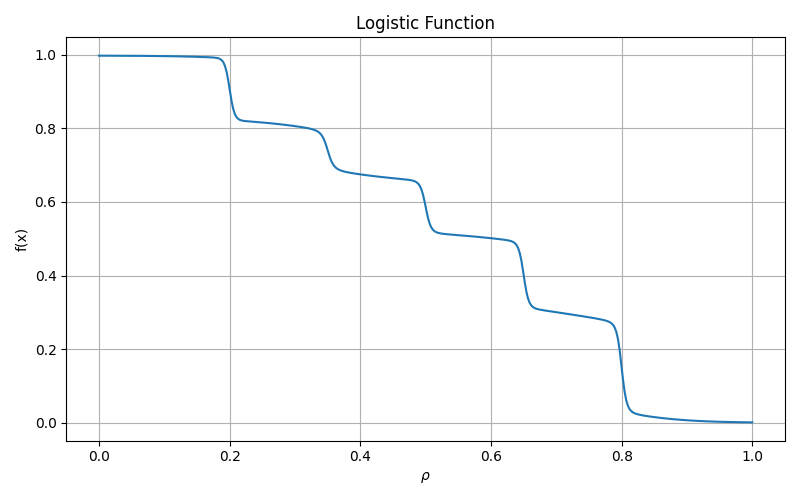
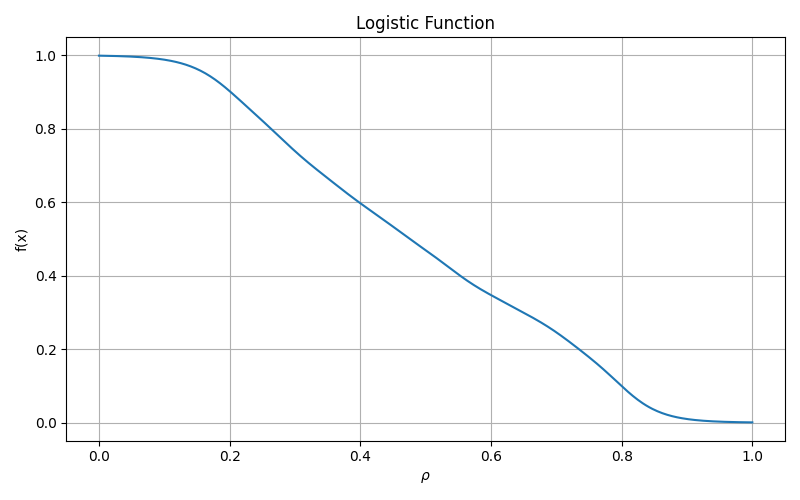
constraints + monotonicity objective are in place for poly

diff --git a/Scratch/Profiles/logistic.py b/Scratch/Profiles/logistic.py
@@ -1,19 +1,18 @@
 #NOTES:
-#should L and k in logistic(L,k) be given names to reflect they're scalars, not arrays?
-#have some way to call iota and/or curvature
-
-#make """ """ appearance consistent
-#make comments consistent: #this? or # this?
-#consider upper limit to k_max, as decided by theory.
+# should L and k in logistic(L,k) be given names to reflect they're scalars, not arrays?
+# have some way to call iota and/or curvature
+# consider upper limit to k_max, as decided by theory
+# logistic_opt(weights) needs to be in form acceptable for _Profile
 
 import os
 import numpy as np
 import matplotlib.pyplot as plt
 
 
+#------------- Global Variables -------------#
+NPTS = 400 #number of points
+X = np.linspace(0, 1, NPTS) #x axis generation
 
-NPTS= 400 #number of points
-X= np.linspace(0, 1, NPTS) #x axis generation
 
 
 
@@ -33,14 +32,14 @@ def logistic(k, rho_shift):
     f: array-like
         Logistic function
     """
-    rho= X - 0.5 #shift s.t. the func is no longer centered at rho=0
-    f= 1 - ( 1 / (1 + np.exp(-k* (rho - rho_shift/10)))) #the logistic func
+    rho = X - 0.5 #shift s.t. the func is no longer centered at rho=0
+    f = 1 - ( 1 / (1 + np.exp(-k* (rho - rho_shift/10)))) #the logistic func
     return f
 
 
 
 #----------------------- Node Distribution Functions ------------------------#
-#Choices of how to spread out families of k and rho_shift parameters
+
 def generate_nodes(min_val, max_val, N, *, quadratic=False, equidistant=False):
     """
     Generates nodes in [min_val, max_val] using either a quadratic
@@ -65,23 +64,21 @@ def generate_nodes(min_val, max_val, N, *, quadratic=False, equidistant=False):
     nodes: ndarray
         1D array of nodes in [min_val, max_val].
     """
-
-    #If both True or both False, error:
-    if quadratic == equidistant: 
+    #
+    if quadratic == equidistant: # if both True or both False, error
         raise ValueError(
             "Exactly one of 'quadratic' or 'equidistant' must be True."
         )
-    
+    #
     t = np.linspace(0.0, 1.0, N)
-    #Quadratically graded nodes, higher density near max_val:
+    # Quadratically graded nodes, higher density near max_val:
     if quadratic:
-    
         s = 1.0 - (1.0 - t)**2
         nodes = min_val + (max_val - min_val) * s
-    #Equidistantly spaced nodes:
+    # Equidistantly spaced nodes:
     else:  
         nodes = min_val + (max_val - min_val) * t
-
+    #
     return nodes
 
 
@@ -110,8 +107,8 @@ def logistic_super(N_k, k_min, k_max, N_shift, shift_min, shift_max, weights):
         function permutations of the chosen range of k and rho_shift,
         weighted by the optimization parameter "weights".
     """
-    fam= np.empty((len(X), N_k, N_shift), dtype=float)
-    k_nodes= generate_nodes( #distribution of k values 
+    fam = np.empty((len(X), N_k, N_shift), dtype=float)
+    k_nodes = generate_nodes( #distribution of k values 
         k_min, k_max, N_k, quadratic=False, equidistant=True)
     shift_nodes = generate_nodes( #distribution of rho_shifts
         shift_min, shift_max, N_shift, quadratic=False, equidistant=True) 
@@ -121,11 +118,11 @@ def logistic_super(N_k, k_min, k_max, N_shift, shift_min, shift_max, weights):
         for j, rho_shift in enumerate(shift_nodes):
             fam[:, i, j] = logistic(k_val, rho_shift)
     
-    fam_flat= fam.reshape(NPTS, -1) #reshaping 3D krho_fam (resol,N,N) into 2D krho_flat (resol, N^2)
-    superpos= np.empty(NPTS, dtype=float) #initializing (N,1) superposition array
+    fam_flat = fam.reshape(NPTS, -1) #reshaping 3D krho_fam (resol,N,N) into 2D krho_flat (resol, N^2)
+    superpos = np.empty(NPTS, dtype=float) #initializing (N,1) superposition array
 
     for w in range(N_k*N_shift): #scaling each func in family by optimization weights
-        superpos+= weights[w] * fam_flat[:,w] 
+        superpos += weights[w] * fam_flat[:,w] 
         
     superpos= superpos/(superpos[0] - superpos[-1]+ 0.05) #normalizing superposition
     return superpos
@@ -149,12 +146,12 @@ def logistic_opt(weights):
     weighted by "weights"
     """
     #see logistic_super for definitions:
-    N_k= 5 
-    k_min= 20 
-    k_max= 40 #steepness
-    N_shift= 5
-    shift_min= -2 #hard clamp
-    shift_max= 2 #hard clamp
+    N_k = 5 
+    k_min = 20 
+    k_max = 40 #steepness
+    N_shift = 5
+    shift_min = -2 #hard clamp
+    shift_max = 2 #hard clamp
 
     opt_pressure= logistic_super(
         N_k, k_min, k_max, N_shift, shift_min, shift_max, weights)
@@ -168,7 +165,7 @@ plt.title('Logistic Function')
 plt.xlabel(r'$\rho$')
 plt.ylabel('f(x)')
 #plot currently uses random weights:
-plt.plot(X, logistic_super(5, 20, 100, 5, -3, 3, np.random.rand(5**2)))
+plt.plot(X, logistic_super(5, 20, 40, 8, -3, 3, np.random.rand(5*8)))
 plt.grid()
 plt.tight_layout()
 plt.savefig('logistic.png')

diff --git a/Scratch/Runs/poly/opt_fixbound.py b/Scratch/Runs/poly/opt_fixbound.py
@@ -5,72 +5,96 @@
 
 
 
-#Imports:
+#---------- Imports & Loads ----------#
 import numpy as np
 import sys
 sys.path.append("/Users/macdaddi/DESC")
 import matplotlib.pyplot as plt
 import desc.io
+from desc.grid import LinearGrid
 from desc.objectives import (
     ObjectiveFunction,
-   #FixPressure, #skipping this line
+    FixPressure,
     FixIota,
     FixPsi,
     ForceBalance,
     LinearObjectiveFromUser,
+    ObjectiveFromUser,
 )
 from desc.optimize import Optimizer
-import scratch
 
 
 #Loading Equilibria Family and Making a Copy of Final Iteration:
-eq_init_fixbound= desc.io.load("scratch/runs/poly/eq_init_fixbound.h5") #initial equilibrium load - might need to generalize path
-eq_init= eq_init_fixbound[-1].copy() #copy of final eq in family
+eq_init_fixbound = desc.io.load("scratch/runs/poly/eq_init_fixbound.h5") #initial equilibrium load - might need to generalize path
+eq_init = eq_init_fixbound[-1].copy() #copy of final eq in family
 
 
-
-
-#-----------------------------------------------------
-#Objective of Choice:
-objective= ObjectiveFunction(ForceBalance(eq=eq_init))
-
-#Importing Custom Constraint Funcs:
+# Importing custom constraint funcs:
 from scratch.objectives.constraints import ( 
+    pressure_axis,
     pressure_edge,
     grad_pressure_axis,
-    grad_pressure_edge
+    grad_pressure_edge,
+    monotonicity
 )
 
-#Constructing the Objective Wrappers for Custom Func:
+# Custom objective wrapper for constraints:
+pressure_axis_normalized = LinearObjectiveFromUser(
+    fun=pressure_axis, 
+    thing=eq_init,
+    target=1.0, # pressure = 1 on axis
+    weight=1.0,
+)
 pressure_edge_zero = LinearObjectiveFromUser(
     fun=pressure_edge,
     thing=eq_init,
-    target=0.0,
+    target=0.0, # pressure = 0 on edge
     weight=1.0,
 )
 grad_pressure_axis_zero = LinearObjectiveFromUser(
-    fun=grad_pressure_axis,
+    fun=grad_pressure_axis, # Grad(P) = 0 on axis
     thing=eq_init,
     target=0.0,
     weight=1.0,
 )
 grad_pressure_edge_zero = LinearObjectiveFromUser(
-    fun=grad_pressure_edge,
+    fun=grad_pressure_edge, # Grad(P) = 0 on edge
     thing=eq_init,
     target=0.0,
     weight=1.0,
 )
 
-#List of Constraints:
+
+# Custom objective wrapper for monotonicity func:
+negative_gradient = ObjectiveFromUser( 
+    fun=monotonicity,
+    grid=LinearGrid(rho=200,M=0,N=0),
+    thing=eq_init,
+    target=0.0,
+    weight=1.0,
+    normalize=False,
+)
+
+
+# Creating objective:
+objective= ObjectiveFunction([
+    ForceBalance(eq=eq_init), # J x B - Grad(P) = 0
+    negative_gradient, # monotonicity
+    ])
+
+
+#List of Constraints: EITHER FixPressure OR 4 Pressure Constraints Active
 constraints = (
     ForceBalance(eq=eq_init),  # enforce JxB-grad(p)=0 during optimization
-   #FixPressure(eq=eq_init),  # fix pressure profile - OMITTED
+    #FixPressure(eq=eq_init),  # fix pressure profile
     FixIota(eq=eq_init),  # fix rotational transform profile
     FixPsi(eq=eq_init),  # fix total toroidal magnetic flux
-    pressure_edge_zero, # pressure falls to zero on edge
-    grad_pressure_axis_zero, #grad(P) is zero on axis
-    grad_pressure_edge_zero, #grad(P) is zero on edge
+    pressure_axis_normalized, #pressure = 1 on axis
+    pressure_edge_zero, # pressure = 0 on edge
+    grad_pressure_axis_zero, #grad(P) = 0 on axis
+    grad_pressure_edge_zero, #grad(P) = 0 on edge
 )
+
 
 #Optimizer of Choice:
 optimizer = Optimizer("proximal-lsq-exact") #choice of optimizer
@@ -78,15 +102,14 @@ optimizer = Optimizer("proximal-lsq-exact") #choice of optimizer
 
 
 
-#----------------------------------
-#Running the Optimizer:
+#---------------- Running the Optimizer -----------------#
 eq_opt, result = eq_init.optimize(
     objective=objective,
     constraints=constraints,
     optimizer=optimizer,
     ftol=5e-2,  # stopping tolerance on the function value
     xtol=1e-6,  # stopping tolerance on the step size
-    gtol=1e-7,  # stopping tolerance on the gradient
+    gtol=1e-6,  # stopping tolerance on the gradient
     maxiter=50,  # maximum number of iterations
     options={
         "perturb_options": {"order": 2, "verbose": 0},  # use 2nd-order perturbations
@@ -102,3 +125,24 @@ eq_opt, result = eq_init.optimize(
 )
 
 
+# Autosaving optimized equilibrium:
+eq_opt.save('/Users/macdaddi/DESC/scratch/runs/poly/opt_fixbound.h5')
+
+
+
+
+#------ Optimized Pressure Profile Plotting ------#
+rho = np.linspace(0, 1, 400)
+grid = LinearGrid(rho=rho, M=0, N=0)   
+data = eq_opt.compute("p", grid=grid)
+P = data["p"]
+#
+plt.figure(figsize=(7,5))
+plt.plot(rho, P, linewidth=2)
+plt.xlabel(r"$\rho$", fontsize=14)
+plt.ylabel(r"$P(\rho)$", fontsize=14)
+plt.title("Post-Optimization Pressure", fontsize=16)
+plt.grid(True)
+plt.tight_layout()
+plt.savefig('/Users/macdaddi/DESC/scratch/runs/poly/pressure.png')
+print(eq_opt.pressure.params)

diff --git a/Scratch/Objectives/constraints.py b/Scratch/Objectives/constraints.py
@@ -1,19 +1,59 @@
 import numpy as np
+import jax.numpy as jnp
+#------------- Polynomial Constraints -------------#
 
+def pressure_axis(params):
+    """
+    Pressure on axis (rho=0)
+    Target: P(0)=1 (normalized)
+    """
+    c_0 = params['p_l'][0]
+    return c_0 # only first coeff survives
 
-def pressure_edge(params): #psi=1 pressure --> 0 
-    p_coeff= params["p_l"]
+def pressure_edge(params):
+    """
+    Pressure on edge (rho=1)
+    Target: P(1)=0
+    """
+    p_coeff = params['p_l']
     return p_coeff.sum()
 
-
-def grad_pressure_axis(params): #psi=0 grad(P) --> 0
-    c_1= params["p_l"][1]
+def grad_pressure_axis(params): 
+    """
+    Pressure gradient on axis (rho=0)
+    Target: GradP=0 (no discontinuity)
+    """
+    c_1 = params['p_l'][1]
     return c_1
 
+def grad_pressure_edge(params):
+    """
+    Pressure gradient on edge (rho=1)
+    Target: GradP=0 (no surface current J)
+    """ 
+    grad_coeff = params['p_l'][1:]
+    order = np.arange(1, len(grad_coeff)+1)
+    return (order * grad_coeff).sum()
 
-def grad_pressure_edge(params): #psi=1 grad(P) --> 0 
-    gradp_coeff= params["p_l"][1:]
-    order= np.arange(1, len(gradp_coeff)+1)
-    return (order * gradp_coeff).sum()
+def monotonicity(grid, data):
+    """
+    Ensures monotonic decrease of pressure
+    Parameters
+    -----------
+    grid: desc.grid.Grid
+          grid object - only array of rho is used
+    data: dict[str, ndarray]
+          dictionary of optimizer outputs - only pressure array is used
+    Returns
+    -------
+    jnp.max(violations): scalar
+                         largest dp over all grid points
+    """
+    p_sorted = data["p"] # pressure at grid points
+    rho = grid.nodes[:, 0] # rho gridpoints
+    dp = p_sorted[1:] - p_sorted[:-1] # pressure differences: p[i+1] - p[i]
+    violations = jnp.maximum(0.0, dp) # array where nonzero values = positive slope 
+    return jnp.max(violations) # largest dp chosen, penalized by optimizer
+
 
 

diff --git a/Scratch/Runs/poly/eq_init_fixbound.py b/Scratch/Runs/poly/eq_init_fixbound.py
@@ -32,9 +32,9 @@ surf= FourierRZToroidalSurface(
 
 #Initializing Pressure and Iota:
 pressure = PowerSeriesProfile(
-    [1.8e4, 0, -3.6e4, 0, 1.8e4]
+    [1.8e4, 0, -3.6e4, 0, 1.8e4, 0, 1e4]
 )  
-iota = PowerSeriesProfile([1, 0, 1.5])  # 1 + 1.5 r^2
+iota = PowerSeriesProfile([1, 0, 2]) 
 
 #Constructing Equilibrium 
 eq = Equilibrium(
@@ -54,3 +54,6 @@ eq = Equilibrium(
 #Solving & Saving Equilibrium:
 eq_init= solve_continuation_automatic(eq.copy(), verbose=3)
 eq_init.save('/Users/macdaddi/DESC/scratch/runs/poly/eq_init_fixbound.h5')
+
+
+#[ 1.          0.         -6.55498346  9.10996693 -3.55498346] 
